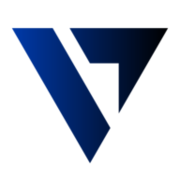
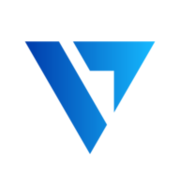
파비콘

Changed region(s): [[0.0556, 0.1389, 0.6111, 0.9167], [0.3889, 0.1389, 0.9444, 0.6389]]

diff --git a/index.html b/index.html
@@ -3,7 +3,7 @@
 
     <head>
         <meta charset="UTF-8">
-        <link rel="icon" href="/favicon.ico">
+        <link rel="icon" href="/ico/favicon.ico">
         <link rel="stylesheet"
             href="https://fonts.googleapis.com/css2?family=Material+Symbols+Outlined:opsz,wght,FILL,GRAD@20..48,100..700,0..1,-50..200&display=block" />
         <meta name="viewport"
